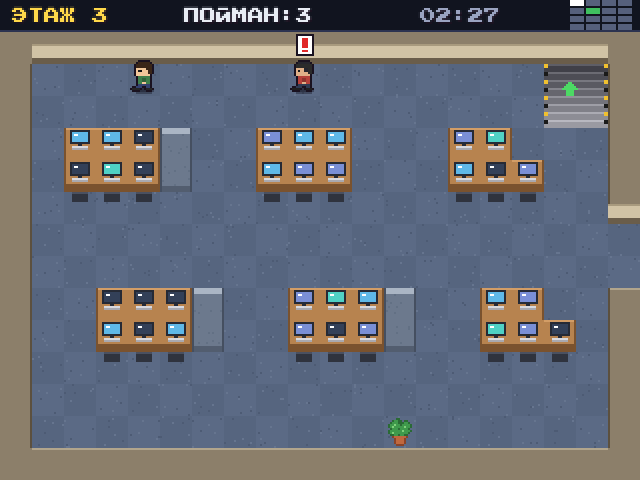
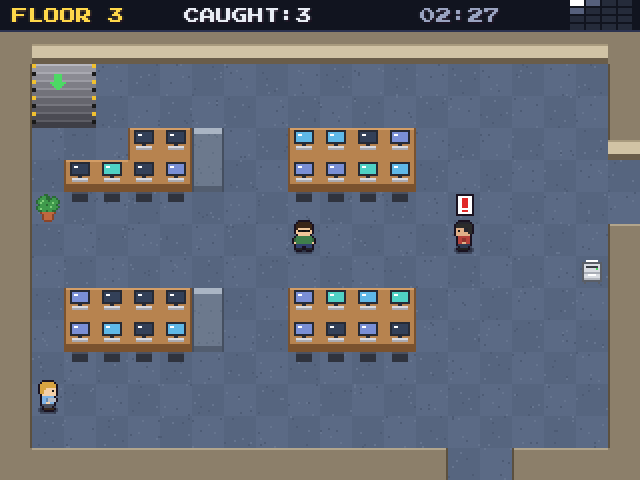
Show English in the README screenshot and keep Cyrillic in i18n.js
The README screenshot is retaken in English: a team lead spots the hero
on the 3rd floor, with the English HUD. The README drops the Russian
title.

The font preload sampled a hardcoded Russian string; it now samples the
chosen string table, which loads exactly the script subsets that
language needs. AGENTS.md records i18n.js as the only file with
Cyrillic.

diff --git a/js/game.js b/js/game.js
@@ -151,8 +151,9 @@
   }
 
   // The pixel font comes from Google Fonts; offline, the game falls back to monospace.
+  // Sampling every string of the language loads each script subset it needs.
   const fontReady = document.fonts
-    ? Promise.race([document.fonts.load('8px "Press Start 2P"', 'ПОБЕГ Escape'), new Promise((r) => setTimeout(r, 2500))])
+    ? Promise.race([document.fonts.load('8px "Press Start 2P"', JSON.stringify(strings)), new Promise((r) => setTimeout(r, 2500))])
     : Promise.resolve();
   fontReady.catch(() => {}).then(start);
 })(this);

diff --git a/AGENTS.md b/AGENTS.md
@@ -19,4 +19,4 @@
 
 - Generation is deterministic: layouts come from `hash(seed, floor, x, y, attempt)` via `rng.js`. Logic code takes randomness from a seeded rng; `Math.random` belongs to presentation only.
 - A catch resets enemy positions (`World.states`) but keeps the building (`World.screens`), so the player can learn the layout. A new building comes only from a new game.
-- In-game text lives in `i18n.js`, and a new string goes into every language there. Code, comments and docs are English.
+- In-game text lives in `i18n.js`, the only file with Cyrillic; a new string goes into every language there. Code, comments and docs are English.

diff --git a/README.md b/README.md
@@ -1,6 +1,6 @@
 # Office Escape
 
-A 16-bit style browser game (*Побег из опенспейса* in Russian). You are a programmer who has had enough of work. Five floors of offices stand between your desk and the lobby exit, and every PM and boss who spots you gives chase.
+A 16-bit style browser game. You are a programmer who has had enough of work. Five floors of offices stand between your desk and the lobby exit, and every PM and boss who spots you gives chase.
 
 ![A team lead spots the hero in an open-plan office](docs/screenshot.png)
 
